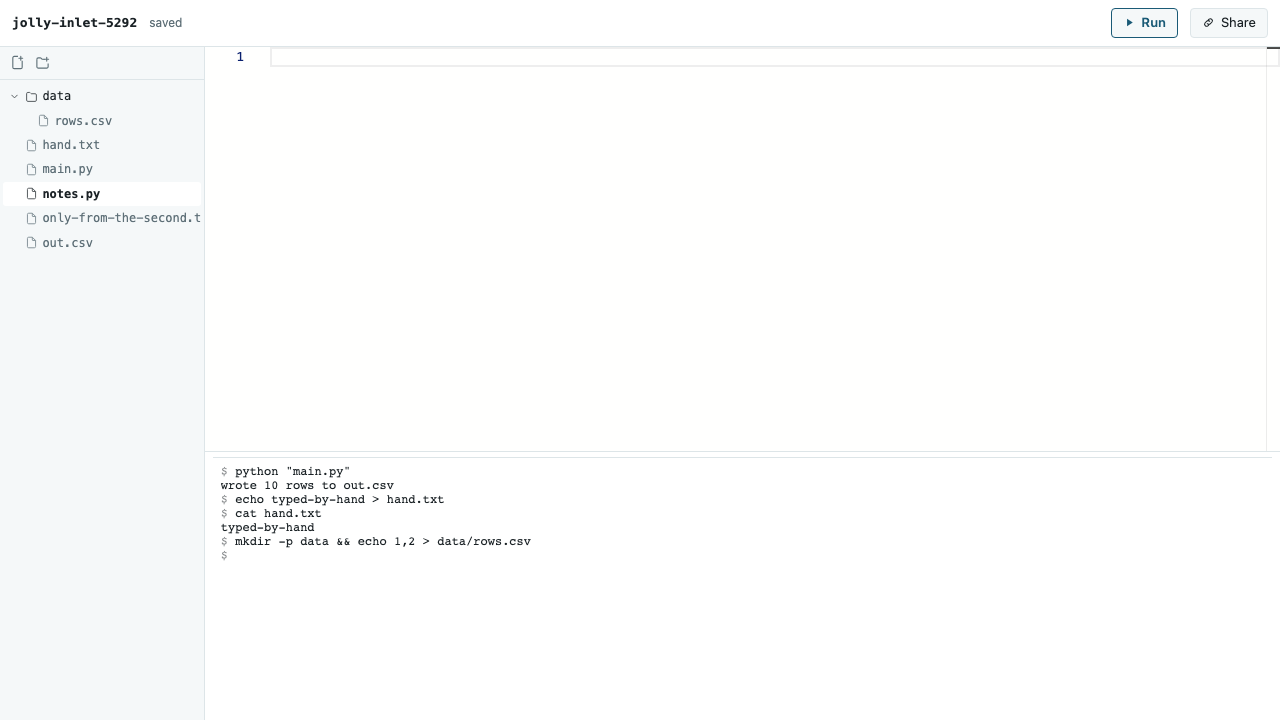
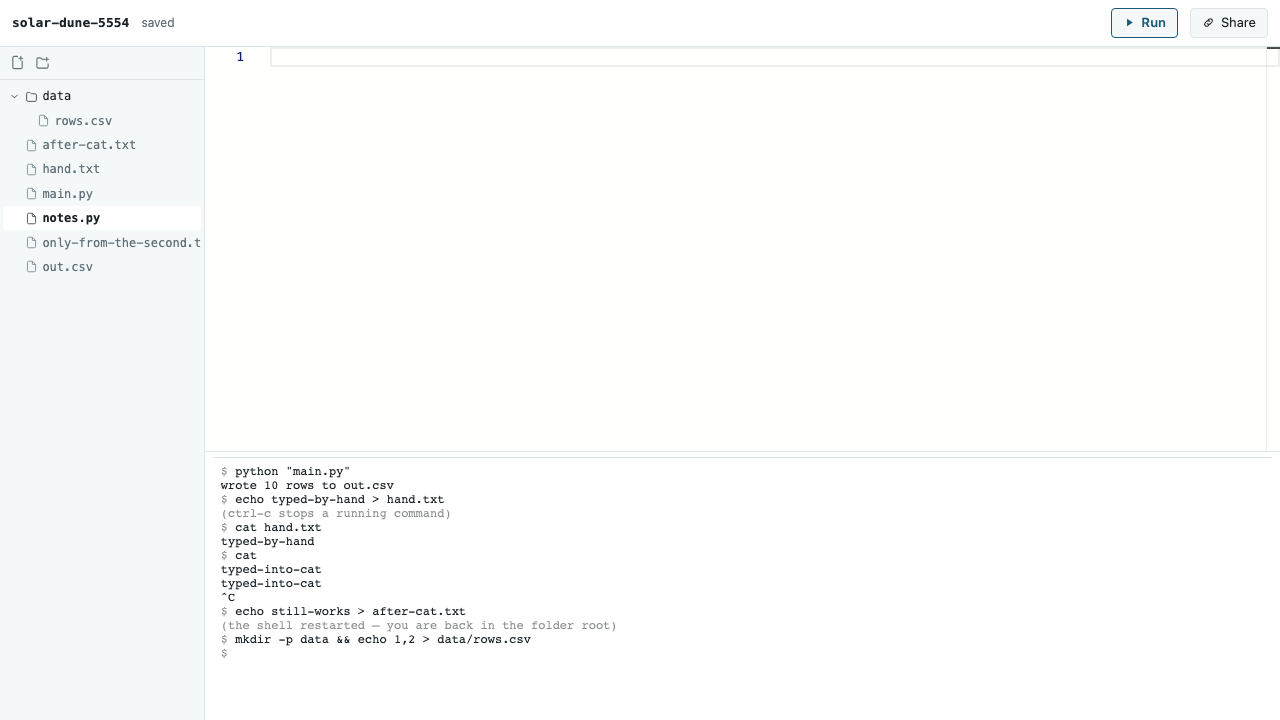
pad: `cat` no longer hangs the terminal
Typing `cat` with no arguments hung the whole tab, and the visible
`printf '\001%s\001' "$?"` was the clue. Four separate faults.

The sentinel was sent as a second line, so it was sitting in the input
buffer when the command started and anything reading stdin ate it. `cat`
consumed it, printed it as data, and waited forever with nothing left to
mark the command finished. It goes on one line now, joined with `;`, so
bash parses both before running either and the command's stdin is the
terminal. A trailing `&` is the exception, since `cmd &; printf` is a
syntax error where `cmd & printf` is not.

Nothing typed afterwards reached the command either — the line editor
swallowed input whenever something was running, which is exactly when a
program that reads stdin needs it. It passes through now, with carriage
returns translated to newlines, because the line discipline that normally
does that is not here and `cat` was receiving characters but never a
complete line.

The echo rules took three attempts. bash saves and restores the terminal
around each foreground job, so `stty -echo` only silences the shell's own
input and only until the next command: what a *running program* reads is
echoed by the terminal, and what the page writes is not, after the first
job restores it. So the page echoes while composing a line, never during
a command, and strips the echo of what it sent — searching for it
anywhere rather than at the front, and matching without the line ending,
[…]

diff --git a/pad/src/shell.ts b/pad/src/shell.ts
@@ -46,6 +46,8 @@ export interface Finished {
 export class Shell {
   /** Discards output. Set while the shell is being configured. */
   silent = false;
+  /** False once bash has exited; this shell can serve nothing more. */
+  alive = true;
   /**
    * Bytes we wrote that the terminal may hand straight back.
    *
@@ -73,18 +75,19 @@ export class Shell {
     const proc = await rt.spawnShell(size.columns, size.rows);
     const shell = new Shell(proc, onOutput);
     void shell.drain();
-    // Turn the terminal's own echo off, and wait until it is actually off.
+    void shell.watchForExit();
+    // Echo off for the shell — and only for the shell.
     //
-    // The pty echoes what is written to it, so without this every command
-    // appears twice — once where the page drew it, once where the terminal
-    // repeated it — and the `printf` carrying the exit status lands on screen
-    // too. Probing the shell directly suggested there was no echo at all; a
-    // screenshot of the running page showed there plainly was. The screenshot
-    // was right, which is the argument for taking one.
+    // This looked unreliable for a long time: some commands came back echoed
+    // and others did not. They were two different things. bash saves and
+    // restores the terminal around a foreground job, so what *the shell*
+    // reads is not echoed, while what a *running program* reads is. Which is
+    // exactly the division wanted: the command this page writes stays off the
+    // screen, and anything typed into `cat` appears because the terminal put
+    // it there.
     //
-    // Awaited rather than fired off, because until it lands the shell is still
-    // echoing — and the thing it would echo is the first command somebody
-    // runs. `silent` swallows the setup's own echo along the way.
+    // Awaited rather than fired off: until it lands the shell still echoes,
+    // and the thing it would echo is the first command somebody runs.
     shell.silent = true;
     await shell.run("stty -echo 2>/dev/null");
 
@@ -119,6 +122,26 @@ export class Shell {
     }
   }
 
+  /**
+   * Notice when bash exits.
+   *
+   * `wait()` and not the end of the output stream: interrupting a command
+   * takes the shell down with it here, and the stream stays open afterwards,
+   * so a shell that could serve nothing more still looked healthy and every
+   * command sent to it hung forever.
+   */
+  private async watchForExit(): Promise<void> {
+    try {
+      await this.proc.wait({ check: false });
+    } catch {
+      // Exiting badly is still exiting.
+    }
+    this.alive = false;
+    const waiting = this.waiting;
+    this.waiting = null;
+    waiting?.({ exitCode: 130 });
+  }
+
   private absorb(text: string): void {
     this.buffer += text;
     this.dropEcho();
@@ -130,14 +153,23 @@ export class Shell {
       const before = this.buffer.slice(0, found.index);
       if (before && !this.silent) this.onOutput(before);
       this.buffer = this.buffer.slice(found.index + found[0].length);
+      // The command is over, so anything still expected as an echo is not
+      // coming — holding the tail past this point would swallow real output.
+      this.echoed = "";
       const done = this.waiting;
       this.waiting = null;
       done?.({ exitCode: Number(found[1]) });
     }
-    // A partial marker at the end is held back rather than shown, or the
-    // terminal briefly renders a control character before it is completed.
-    const held = this.buffer.lastIndexOf(MARK);
-    const flushable = held === -1 ? this.buffer : this.buffer.slice(0, held);
+    // Only a partial marker is held back, which would otherwise render as a
+    // control character for an instant.
+    //
+    // Not the echo. Holding the tail until an expected echo arrived seemed
+    // tidier and was much worse: the echo often never comes — bash silences
+    // its own input — so everything after it was held forever and a running
+    // `cat` printed nothing at all. A split echo showing for one frame is a
+    // far smaller price than swallowing output.
+    const marker = this.buffer.lastIndexOf(MARK);
+    const flushable = marker === -1 ? this.buffer : this.buffer.slice(0, marker);
     if (flushable) {
       if (!this.silent) this.onOutput(flushable);
       this.buffer = this.buffer.slice(flushable.length);
@@ -159,11 +191,20 @@ export class Shell {
    */
   private dropEcho(): void {
     if (!this.echoed || !this.buffer) return;
-    if (this.echoed.startsWith(this.buffer)) return;
-    if (this.buffer.startsWith(this.echoed)) {
-      this.buffer = this.buffer.slice(this.echoed.length);
+    // Anywhere, not only at the front. The previous command can leave a
+    // trailing newline in the buffer, and requiring position zero meant the
+    // echo was missed and every command appeared twice from then on.
+    const at = this.buffer.indexOf(this.echoed);
+    if (at !== -1) {
+      // The line ending the terminal chose goes with it, whatever it was.
+      let end = at + this.echoed.length;
+      while (this.buffer[end] === "\r" || this.buffer[end] === "\n") end += 1;
+      this.buffer = this.buffer.slice(0, at) + this.buffer.slice(end);
+      this.echoed = "";
     }
-    this.echoed = "";
+    // Not found yet: it may still be arriving a chunk at a time. `absorb`
+    // holds back the tail until this resolves, and the sentinel clears it
+    // either way, so nothing is held for longer than one command.
   }
 
   /**
@@ -173,12 +214,29 @@ export class Shell {
    * shell would return their sentinels in an order nothing can attribute.
    */
   run(command: string): Promise<Finished> {
+    if (!this.alive) return Promise.reject(new Error("the shell has exited"));
     if (this.waiting) return Promise.reject(new Error("a command is already running"));
     return new Promise<Finished>((resolve, reject) => {
       this.waiting = resolve;
-      const sent = `${command}\nprintf '\\001%s\\001' "$?"\n`;
-      this.echoed = sent;
-      this.proc.stdin!.write(sent).catch((e) => {
+      // One line, joined with `;` rather than a newline.
+      //
+      // Sent as a second line, the sentinel is sitting in the terminal's input
+      // buffer when the command starts — so anything that reads stdin eats it.
+      // `cat` with no arguments consumed it, printed it as data, and then
+      // waited forever for more, with nothing left to mark the command
+      // finished. On one line bash parses both before running either, and the
+      // command's stdin is the terminal, where it belongs.
+      //
+      // A trailing `&` is the exception: `cmd &; printf` is a syntax error,
+      // while `cmd & printf` is not.
+      const trimmed = command.trimEnd();
+      const joiner = trimmed.endsWith("&") ? " " : "; ";
+      const line = `${trimmed}${joiner}printf '\\001%s\\001' "$?"`;
+      // Without the newline. The terminal echoes CRLF where this writes LF, so
+      // including it meant the two strings never matched and every command
+      // after the first foreground job appeared twice.
+      this.echoed = line;
+      this.proc.stdin!.write(`${line}\n`).catch((e) => {
         this.waiting = null;
         reject(e);
       });
@@ -193,6 +251,11 @@ export class Shell {
    */
   type(data: string): Promise<void> {
     return this.proc.stdin!.write(data);
+  }
+
+  /** Close the guest's stdin, which is EOF to whatever is reading it. */
+  closeStdin(): Promise<void> {
+    return this.proc.stdin!.close();
   }
 
   get busy(): boolean {

diff --git a/pad/src/console.ts b/pad/src/console.ts
@@ -26,8 +26,15 @@ export class Console {
   /** Where the cursor sits within `line`, so arrow keys mean something. */
   private at = 0;
   private history: string[] = [];
+  private warned = false;
+  private started = false;
   private browsing: number | null = null;
   private running = false;
+
+  /** Whether a command is in the foreground. */
+  get busy(): boolean {
+    return this.running;
+  }
 
   constructor(
     private readonly screen: Screen,
@@ -49,7 +56,8 @@ export class Console {
    * 60 MB download about to happen twice.
    */
   attach(shell: Shell): void {
-    this.shell ??= shell;
+    if (!this.shell?.alive) this.shell = shell;
+    this.started = true;
   }
 
   /** Draw the first prompt. Nothing is on screen until this. */
@@ -59,9 +67,38 @@ export class Console {
 
   /** Bytes from the terminal. */
   handle(data: string): void {
-    // While something is running the only useful key is the one that stops it.
+    // While something is running, typing belongs to *it*, not to the line
+    // editor. `cat` with no arguments, `python` with no script, anything that
+    // reads input — all of them need what is typed, and swallowing it here is
+    // why `cat` looked like a hang rather than a program waiting for you.
+    //
+    // Echoed locally on the way through, because the shell does not.
+    // Exposed so the page and the checks can tell a running command from a
+    // prompt waiting for input — from the outside they look identical.
     if (this.running) {
-      if (data === "\x03") void this.shell?.type("\x03");
+      // Enter arrives from the terminal as a carriage return, and a program
+      // reading lines wants a newline — that translation is normally the
+      // line discipline's job, and there is not one here. Without it `cat`
+      // receives characters and never a complete line, so it answers nothing
+      // and still looks hung.
+      // Not echoed here. The terminal echoes what a running program reads —
+      // bash only silences it for its own input — so doing both showed every
+      // keystroke twice: `ttyyppeedd` for `typed`.
+      // ctrl-c ends the shell, not merely the command.
+      //
+      // Sending the byte and waiting to notice was tried twice and does not
+      // work: bash does not survive the interrupt, the output stream stays
+      // open afterwards so nothing looks wrong, and every later command hangs
+      // against a shell that cannot answer. Tearing it down here makes that
+      // deterministic instead of a race — the next command starts a new one.
+      //
+      // ctrl-d is forwarded and does nothing: this pty has no canonical mode,
+      // so there is no EOF to send and `cat` simply reads on.
+      if (data === "\x03") {
+        void this.interrupt();
+        return;
+      }
+      void this.shell?.type(data.replace(/\r/g, "\n"));
       return;
     }
     for (const ch of data) this.key(ch);
@@ -75,6 +112,8 @@ export class Console {
       case "\x7f":
       case "\b":
         return this.backspace();
+      case "\x04": // ctrl-d on an empty line: nothing to end, so ignore it
+        return;
       case "\x03": // ctrl-c: abandon the line, like a real shell
         this.screen.write("^C\r\n" + PROMPT);
         this.line = "";
@@ -131,6 +170,19 @@ export class Console {
     this.redraw();
   }
 
+  /**
+   * Stop whatever is running by ending the shell it runs in.
+   *
+   * The pending command resolves as the process goes, so the prompt comes
+   * back on its own; the next command gets a fresh shell in the folder root.
+   */
+  private async interrupt(): Promise<void> {
+    const shell = this.shell;
+    this.shell = null;
+    this.screen.write("^C\r\n");
+    await shell?.close().catch(() => {});
+  }
+
   private async submit(): Promise<void> {
     const command = this.line;
     this.screen.write("\r\n");
@@ -145,9 +197,29 @@ export class Console {
     if (this.history[this.history.length - 1] !== command) this.history.push(command);
 
     this.running = true;
+    // Said once, the first time something waits: a prompt that has vanished
+    // and a program waiting for input look exactly the same from here.
+    if (!this.warned) {
+      this.warned = true;
+      this.screen.write("\x1b[2m(ctrl-c stops a running command)\x1b[0m\r\n");
+    }
     try {
+      // A shell that has exited is replaced rather than reused. Interrupting
+      // a command takes bash with it here, so this is the normal path after a
+      // ctrl-c — and a fresh shell starts in the folder root with none of the
+      // previous one's variables, which is worth saying rather than letting
+      // somebody discover their `cd` was forgotten.
+      if (this.shell && !this.shell.alive) this.shell = null;
+      if (!this.shell && this.started) {
+        this.screen.write(
+          "\x1b[2m(the shell restarted — you are back in the folder root)\x1b[0m\r\n",
+        );
+      }
       if (!this.shell) {
-        this.screen.write("\x1b[2mstarting the runtime, first command only…\x1b[0m\r\n");
+        if (!this.started) {
+          this.started = true;
+          this.screen.write("\x1b[2mstarting the runtime, first command only…\x1b[0m\r\n");
+        }
         this.shell = await this.shellFor();
       }
       const { exitCode } = await this.shell.run(command);

diff --git a/pad/src/app.ts b/pad/src/app.ts
@@ -91,6 +91,7 @@ export class App {
       text: (p: string) => this.docs.get(p)?.contents() ?? this.models.get(p)?.getValue(),
       known: () => [...this.known.keys()],
       counts: () => this.peers?.counts,
+      shellBusy: () => this.console?.busy ?? false,
     };
   }
 
@@ -553,6 +554,10 @@ export class App {
   }
 
   private async ensureShell(): Promise<Shell> {
+    // A shell that has exited cannot be reused. Interrupting a command takes
+    // bash down with it in this runtime, so this is the ordinary path after
+    // any ctrl-c, not an error case.
+    if (this.shell && !this.shell.alive) this.shell = null;
     if (this.shell) return this.shell;
     const rt = await this.ensureRuntime();
     this.shell = await Shell.open(rt, { columns: this.cols, rows: this.rows }, (t) =>
